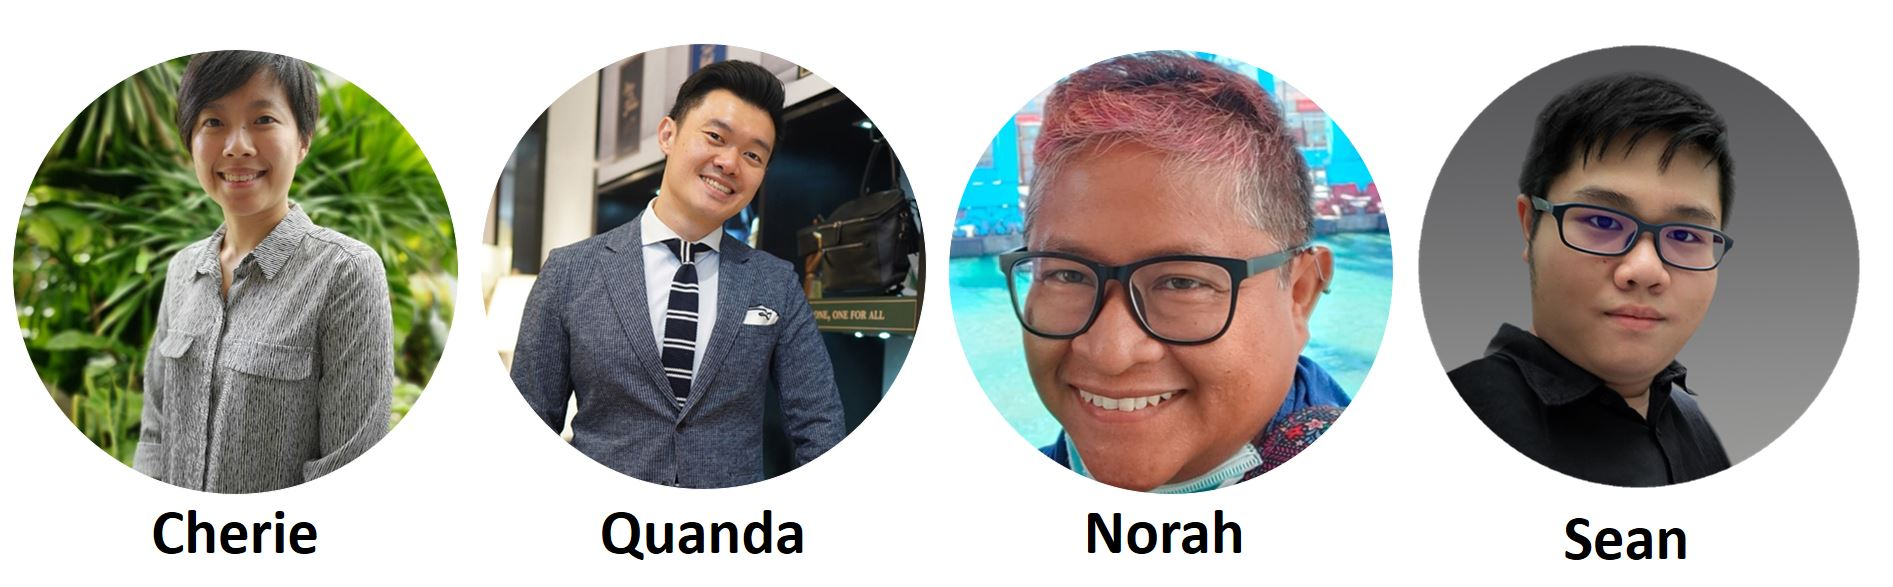
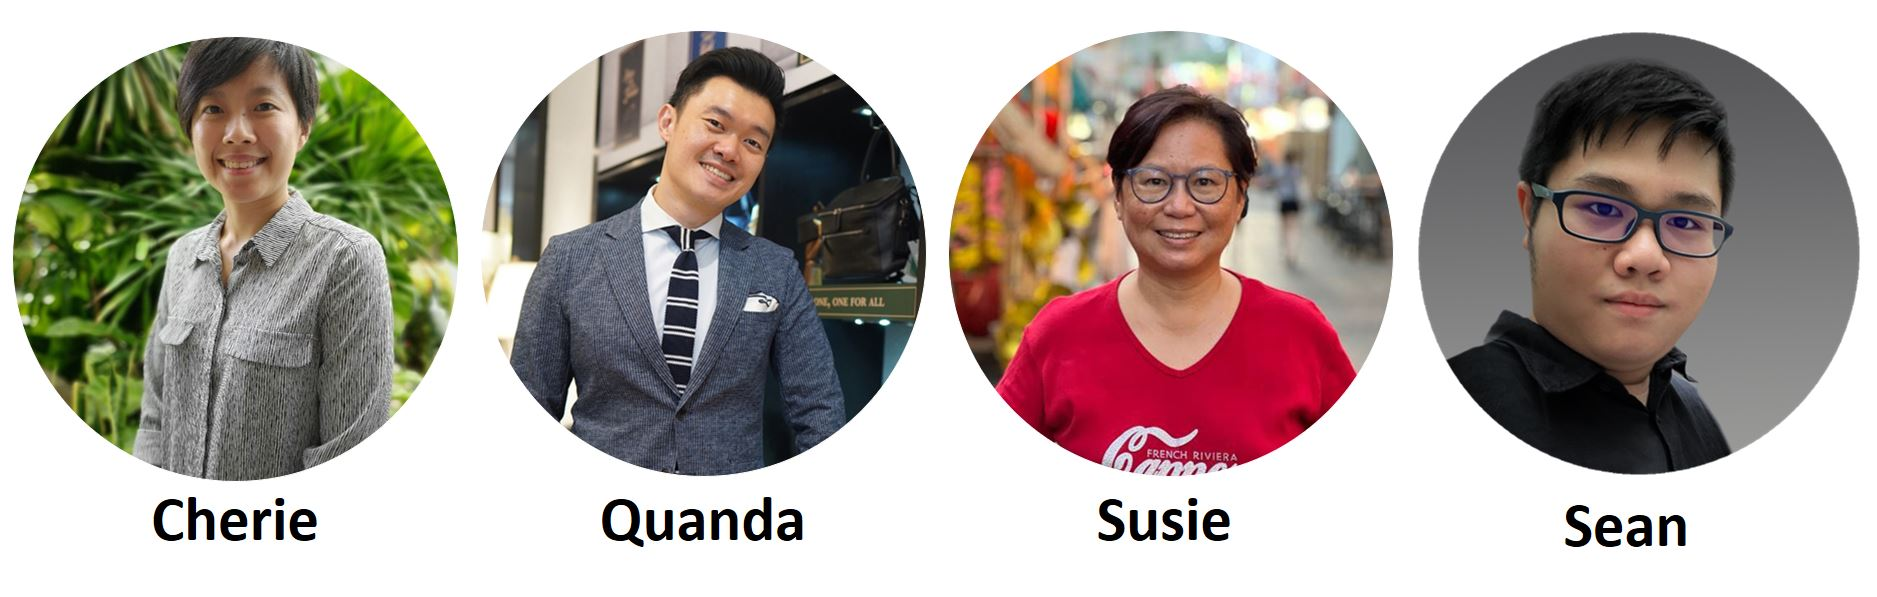
RTBS2

diff --git a/_read-to-be-sure/2h-rtbs02-conversations.md b/_read-to-be-sure/2h-rtbs02-conversations.md
@@ -30,7 +30,7 @@ Speakers:
 
 - Dr Cherie Chan, Clinical Psychologist at Thrive Family
 - Ong Quanda, Founder and CEO at Gnome & Bow
-- Noor Soeb, World traveller at @twotravellingaunties
+- Susie Chua, World traveller at @twotravellingaunties
 
  
 
@@ -43,8 +43,9 @@ Moderator:
 <details> <summary><b>About the Speakers and Moderator</b></summary>
     <p> <b>Dr Cherie Chan</b> is a clinical psychologist at Thrive Family. She is registered with the Singapore Register of Psychologist (SRP) and is an SRP approved clinical supervisor. With nearly a decade of experience in public and private mental health settings across Singapore and Australia, Cherie has worked extensively with adolescents and adults presenting with a range of psychological issues. She is the current President of the Singapore Psychological Society and holds various roles in the international psychology scene including being the Secretary for the Asia Pacific Psychology Alliance (APPA), and represents psychologists in Singapore as a member of the ASEAN Regional Union of Psychological Societies (ARUPS).</p>
 <p><b>Quanda Ong</b> is the founder and CEO at Gnome & Bow, renowned for its unique bags and wallet designs inspired by storybook classics. Over the years, Quanda has grown his brand’s presence to 9 countries and over 40 point-of-sales internationally. He was awarded as Finalist for Designer of the Year (Accessories) in 2017 and has successfully launched numerous collaborative collections with global corporations such as American Express, Tiger Beer and Knight Frank.</p>
-    <p><b>Noor Soeb (Norah)</b> is one half of the duo, 2TravellingAunties who travelled to 3 continents, 27 countries in 2 years from 2019 till 2021. Norah chose the road less trodden, driving and living in a motorhome through Europe, United Kingdom, North Africa and Turkey, while smashing stereotypes with every mile on the clock. 5 lockdowns, multiple PCR tests and denied entries at borders despite having the second most powerful passport in the world, Norah is planning and preparing her next road adventure.</p>
+    <p><b>Susie Chua</b> is one half of the duo, 2TravellingAunties who travelled to 3 continents, 27 countries in 2 years. In 2019 Susie chose to leave her corporate world and travelled the road less trodden living in a motorhome through Europe, United Kingdom, North Africa and Turkey, while smashing stereotypes with every mile on the clock. Five lockdowns, multiple PCR tests and many denied entries at borders did not slow her down. The 2TravellingAunties are planning and preparing their next road adventure, The Americas.</p>
 <p><b>Sean Tan</b> is the Outreach Director at Debate Association (Singapore) and a second year student at Singapore Polytechnic. Sean has represented his school in debating tournaments around the world and adjudicated at local tournaments, including the Singapore Secondary Schools Debating Championship and NYP's Inter-school Tournament. Since joining DA(S), Sean has worked on several projects including Youth Debate Open and December Debate Camp. In school, Sean is the President of the Singapore Polytechnic Debating Club, conducting weekly trainings for aspiring debaters.    </p></details>
+
 
 
 
